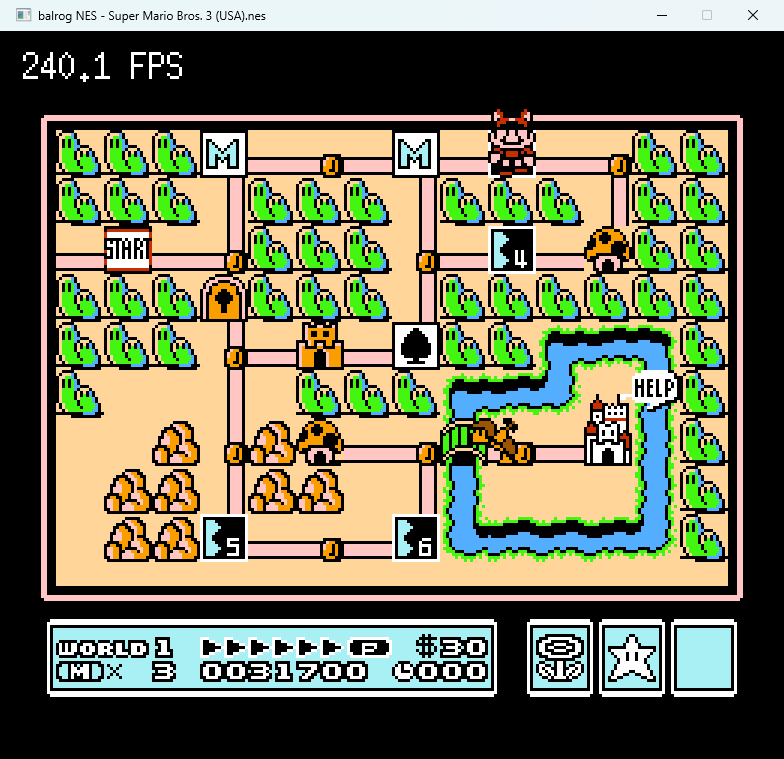
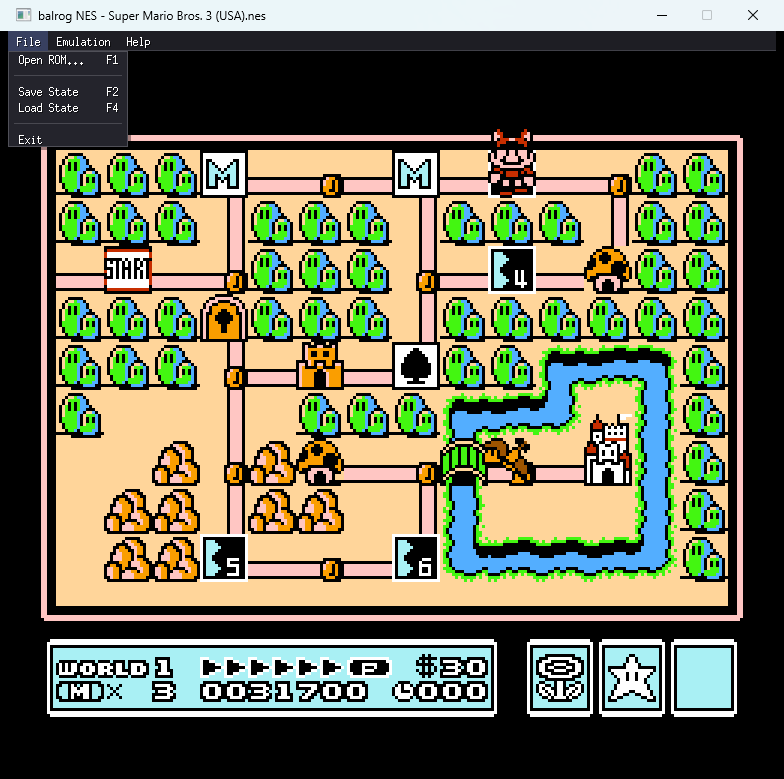
Add menu bar with File/Emulation/Help dropdowns
- Menu bar at native pixel size across the top of the window
- File: Open ROM, Save State, Load State, Exit
- Emulation: Reset, Snap 4 frames (F11)
- Help: Controls cheat sheet, About (credits Jeff Aigner)
- Layout switched from logical 256×240 scaled by Ebiten to outside-size
  1:1 with manual DrawImage scaling, so menu bar text stays a normal size
  regardless of the emulator scale factor
- README screenshot updated

diff --git a/menubar.go b/menubar.go
@@ -1,0 +1,264 @@
+package main
+
+import (
+	"image/color"
+	"os"
+	"time"
+
+	"github.com/hajimehoshi/ebiten/v2"
+	"github.com/hajimehoshi/ebiten/v2/ebitenutil"
+	"github.com/hajimehoshi/ebiten/v2/inpututil"
+)
+
+// Top-of-window menu bar. Drawn in *native* window pixels above the
+// scaled NES output — so the menu font stays a normal size regardless of
+// the emulator scale factor. Dropdowns open on click, close on click-away
+// or after a selection.
+
+const (
+	menuBarH  = 20
+	menuItemH = 16
+	charW     = 6  // ebitenutil.DebugPrint glyph width
+	charH     = 13 // ebitenutil.DebugPrint glyph height
+)
+
+type menuAction func()
+
+type menuItem struct {
+	label     string
+	shortcut  string
+	action    menuAction
+	enabled   func() bool // nil = always enabled
+	separator bool
+}
+
+type menuSection struct {
+	label string
+	items []menuItem
+}
+
+type menuBar struct {
+	menus   []menuSection
+	openIdx int // -1 when nothing is open
+}
+
+func newMenuBar(g *Game) *menuBar {
+	hasNES := func() bool { return g.nes() != nil }
+	return &menuBar{
+		openIdx: -1,
+		menus: []menuSection{
+			{
+				label: "File",
+				items: []menuItem{
+					{label: "Open ROM...", shortcut: "F1", action: g.openROMDialog},
+					{separator: true},
+					{label: "Save State", shortcut: "F2", action: g.saveState, enabled: hasNES},
+					{label: "Load State", shortcut: "F4", action: g.loadState, enabled: hasNES},
+					{separator: true},
+					{label: "Exit", action: func() { os.Exit(0) }},
+				},
+			},
+			{
+				label: "Emulation",
+				items: []menuItem{
+					{label: "Reset", shortcut: "F5", action: func() {
+						if nes := g.nes(); nes != nil {
+							nes.CPU.Reset()
+							g.setStatus("reset", time.Second)
+						}
+					}, enabled: hasNES},
+					{separator: true},
+					{label: "Snap 4 frames", shortcut: "F11", action: func() {
+						if nes := g.nes(); nes != nil {
+							start := nes.PPU.FrameCount()
+							for i, suf := range []string{"a", "b", "c", "d"} {
+								g.snaps = append(g.snaps, snapSpec{at: start + uint64(i), path: snapFilename(start, suf)})
+							}
+							g.setStatus("snap burst armed", 2*time.Second)
+						}
+					}, enabled: hasNES},
+				},
+			},
+			{
+				label: "Help",
+				items: []menuItem{
+					{label: "Controls", action: func() {
+						g.setStatus("X=A  Z=B  RShift=Select  Enter=Start  Arrows=D-pad", 5*time.Second)
+					}},
+					{label: "About", action: func() {
+						g.setStatus("balrog NES — written by Jeff Aigner (Go + Ebitengine)", 5*time.Second)
+					}},
+				},
+			},
+		},
+	}
+}
+
+// labelWidth returns the on-screen width of a menu bar label including
+// horizontal padding on both sides.
+func (m *menuBar) labelWidth(i int) int { return len(m.menus[i].label)*charW + 16 }
+
+func (m *menuBar) dropdownX(i int) int {
+	x := 0
+	for k := 0; k < i; k++ {
+		x += m.labelWidth(k)
+	}
+	return x
+}
+
+func (m *menuBar) dropdownWidth(i int) int {
+	max := 0
+	for _, it := range m.menus[i].items {
+		if it.separator {
+			continue
+		}
+		w := len(it.label)*charW + len(it.shortcut)*charW + 32
+		if w > max {
+			max = w
+		}
+	}
+	if max < 120 {
+		max = 120
+	}
+	return max
+}
+
+// hit returns (menuIdx, -1) for a bar click, (menuIdx, itemIdx) for a
+// dropdown item click, or (-1, -1) for anywhere else.
+func (m *menuBar) hit(mx, my int) (int, int) {
+	if my >= 0 && my < menuBarH {
+		x := 0
+		for i := range m.menus {
+			w := m.labelWidth(i)
+			if mx >= x && mx < x+w {
+				return i, -1
+			}
+			x += w
+		}
+		return -1, -1
+	}
+	if m.openIdx < 0 {
+		return -1, -1
+	}
+	dx := m.dropdownX(m.openIdx)
+	dw := m.dropdownWidth(m.openIdx)
+	dh := len(m.menus[m.openIdx].items) * menuItemH
+	if mx >= dx && mx < dx+dw && my >= menuBarH && my < menuBarH+dh {
+		return m.openIdx, (my - menuBarH) / menuItemH
+	}
+	return -1, -1
+}
+
+func (m *menuBar) update(g *Game) bool {
+	consumed := false
+	if inpututil.IsMouseButtonJustPressed(ebiten.MouseButtonLeft) {
+		mx, my := ebiten.CursorPosition()
+		mi, ii := m.hit(mx, my)
+		switch {
+		case mi >= 0 && ii < 0: // clicked a menu bar label
+			if m.openIdx == mi {
+				m.openIdx = -1
+			} else {
+				m.openIdx = mi
+			}
+			consumed = true
+		case mi >= 0 && ii >= 0: // clicked a dropdown item
+			it := m.menus[mi].items[ii]
+			if !it.separator && it.action != nil {
+				if it.enabled == nil || it.enabled() {
+					it.action()
+				}
+			}
+			m.openIdx = -1
+			consumed = true
+		default: // clicked away
+			if m.openIdx >= 0 {
+				m.openIdx = -1
+				consumed = true
+			}
+		}
+	}
+	if inpututil.IsKeyJustPressed(ebiten.KeyEscape) && m.openIdx >= 0 {
+		m.openIdx = -1
+		consumed = true
+	}
+	return consumed
+}
+
+func (m *menuBar) draw(dst *ebiten.Image) {
+	w := dst.Bounds().Dx()
+	// Bar background
+	ebitenutil.DrawRect(dst, 0, 0, float64(w), menuBarH, color.RGBA{0x1E, 0x1E, 0x24, 0xFF})
+	ebitenutil.DrawRect(dst, 0, menuBarH-1, float64(w), 1, color.RGBA{0x40, 0x40, 0x48, 0xFF})
+
+	// Labels
+	x := 0
+	for i, mn := range m.menus {
+		lw := m.labelWidth(i)
+		if i == m.openIdx {
+			ebitenutil.DrawRect(dst, float64(x), 0, float64(lw), menuBarH, color.RGBA{0x38, 0x40, 0x60, 0xFF})
+		}
+		ebitenutil.DebugPrintAt(dst, mn.label, x+8, (menuBarH-charH)/2)
+		x += lw
+	}
+
+	// Open dropdown
+	if m.openIdx >= 0 {
+		mn := m.menus[m.openIdx]
+		dx := m.dropdownX(m.openIdx)
+		dw := m.dropdownWidth(m.openIdx)
+		dh := len(mn.items) * menuItemH
+
+		// Drop shadow first (below + right)
+		ebitenutil.DrawRect(dst, float64(dx+3), float64(menuBarH+3), float64(dw), float64(dh), color.RGBA{0, 0, 0, 0x60})
+		// Background
+		ebitenutil.DrawRect(dst, float64(dx), float64(menuBarH), float64(dw), float64(dh), color.RGBA{0x24, 0x24, 0x2C, 0xFF})
+		// Border
+		ebitenutil.DrawRect(dst, float64(dx), float64(menuBarH), float64(dw), 1, color.RGBA{0x50, 0x50, 0x58, 0xFF})
+		ebitenutil.DrawRect(dst, float64(dx), float64(menuBarH+dh-1), float64(dw), 1, color.RGBA{0x50, 0x50, 0x58, 0xFF})
+		ebitenutil.DrawRect(dst, float64(dx), float64(menuBarH), 1, float64(dh), color.RGBA{0x50, 0x50, 0x58, 0xFF})
+		ebitenutil.DrawRect(dst, float64(dx+dw-1), float64(menuBarH), 1, float64(dh), color.RGBA{0x50, 0x50, 0x58, 0xFF})
+
+		// Hover highlight
+		mx, my := ebiten.CursorPosition()
+		_, hoverItem := m.hit(mx, my)
+
+		y := menuBarH
+		for idx, it := range mn.items {
+			if it.separator {
+				ebitenutil.DrawRect(dst, float64(dx+6), float64(y+menuItemH/2), float64(dw-12), 1, color.RGBA{0x48, 0x48, 0x50, 0xFF})
+			} else {
+				if idx == hoverItem {
+					ebitenutil.DrawRect(dst, float64(dx+1), float64(y), float64(dw-2), float64(menuItemH), color.RGBA{0x38, 0x40, 0x60, 0xFF})
+				}
+				ty := y + (menuItemH-charH)/2
+				ebitenutil.DebugPrintAt(dst, it.label, dx+10, ty)
+				if it.shortcut != "" {
+					sw := len(it.shortcut) * charW
+					ebitenutil.DebugPrintAt(dst, it.shortcut, dx+dw-sw-10, ty)
+				}
+			}
+			y += menuItemH
+		}
+	}
+}
+
+// snapFilename keeps the F11 burst naming consistent between main.go and
+// the menu action.
+func snapFilename(start uint64, suffix string) string {
+	return "snap_" + uitoa(start) + "_" + suffix + ".png"
+}
+
+func uitoa(n uint64) string {
+	if n == 0 {
+		return "0"
+	}
+	var b [20]byte
+	i := len(b)
+	for n > 0 {
+		i--
+		b[i] = byte('0' + n%10)
+		n /= 10
+	}
+	return string(b[i:])
+}

diff --git a/main.go b/main.go
@@ -64,6 +64,8 @@ type Game struct {
 	cycPerFrame       bool
 	lastFrameCycles   uint64
 	traceCpuFrame     uint64
+
+	menuBar *menuBar
 }
 
 // statePath returns the path of the save-state file for the current ROM.
@@ -297,6 +299,12 @@ func (g *Game) Update() error {
 		g.loadState()
 		g.autoLoadStateDone = true
 	}
+	// Menu bar update — if it swallowed the click, skip gamepad/keyboard
+	// input for this frame so the user isn't accidentally feeding the NES
+	// while they're navigating menus.
+	if g.menuBar != nil {
+		g.menuBar.update(g)
+	}
 	// Hotkeys: F1 / Ctrl+O = open file dialog; F5 = reset
 	if inpututil.IsKeyJustPressed(ebiten.KeyF1) ||
 		(ebiten.IsKeyPressed(ebiten.KeyControl) && inpututil.IsKeyJustPressed(ebiten.KeyO)) {
@@ -410,24 +418,38 @@ func (g *Game) Update() error {
 }
 
 func (g *Game) Draw(screen *ebiten.Image) {
+	screen.Fill(color.RGBA{0, 0, 0, 0xFF})
+	sw, sh := screen.Bounds().Dx(), screen.Bounds().Dy()
+	nesAreaY := menuBarH
+	nesAreaH := sh - menuBarH
+	nesAreaW := sw
 	if g.nes() != nil {
 		op := &ebiten.DrawImageOptions{}
+		op.GeoM.Scale(float64(nesAreaW)/screenW, float64(nesAreaH)/screenH)
+		op.GeoM.Translate(0, float64(nesAreaY))
 		screen.DrawImage(g.screen, op)
 	} else {
-		// Placeholder when no ROM is loaded.
 		screen.Fill(color.RGBA{0x10, 0x10, 0x18, 0xFF})
-		ebitenutil.DebugPrintAt(screen, "balrog NES emulator", 8, 90)
-		ebitenutil.DebugPrintAt(screen, "Press F1 (or Ctrl+O) to open a ROM", 8, 110)
-		ebitenutil.DebugPrintAt(screen, "or drag a .nes file onto this window", 8, 122)
+		ebitenutil.DebugPrintAt(screen, "balrog NES emulator", 16, nesAreaY+90)
+		ebitenutil.DebugPrintAt(screen, "File > Open ROM… or drag a .nes here", 16, nesAreaY+110)
+		ebitenutil.DebugPrintAt(screen, "(or press F1)", 16, nesAreaY+122)
 	}
 	if time.Now().Before(g.statusUntil) {
-		ebitenutil.DebugPrintAt(screen, g.statusMsg, 4, screenH-12)
+		ebitenutil.DebugPrintAt(screen, g.statusMsg, 6, sh-16)
 	} else if g.nes() != nil {
-		ebitenutil.DebugPrintAt(screen, fmt.Sprintf("%.1f FPS", ebiten.ActualFPS()), 4, 4)
+		ebitenutil.DebugPrintAt(screen, fmt.Sprintf("%.1f FPS", ebiten.ActualFPS()), 6, nesAreaY+6)
+	}
+	if g.menuBar != nil {
+		g.menuBar.draw(screen)
 	}
 }
 
-func (g *Game) Layout(ow, oh int) (int, int) { return screenW, screenH }
+func (g *Game) Layout(ow, oh int) (int, int) {
+	// Match the outside window exactly — 1 logical pixel per device pixel
+	// so the menu bar's text renders at its natural size and the NES output
+	// fills whatever room is left (DrawImage handles the scaling).
+	return ow, oh
+}
 
 // apuReader pulls samples from whatever NES instance is currently loaded.
 // Returns silence when no ROM is loaded or the buffer underflows.
@@ -473,6 +495,7 @@ func main() {
 		screen: ebiten.NewImage(screenW, screenH),
 		pixels: make([]byte, screenW*screenH*4),
 	}
+	g.menuBar = newMenuBar(g)
 	// Optional positional ROM arg
 	romArg := ""
 	if len(os.Args) >= 2 && len(os.Args[1]) > 0 && os.Args[1][0] != '-' {
@@ -568,7 +591,7 @@ func main() {
 		}
 	}
 
-	ebiten.SetWindowSize(screenW*scale, screenH*scale)
+	ebiten.SetWindowSize(screenW*scale, screenH*scale+menuBarH)
 	if g.romName == "" {
 		ebiten.SetWindowTitle("balrog NES")
 	}
